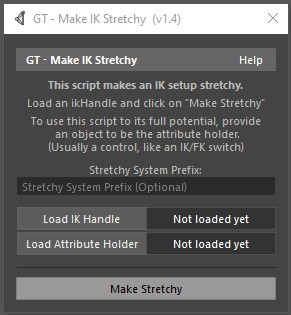
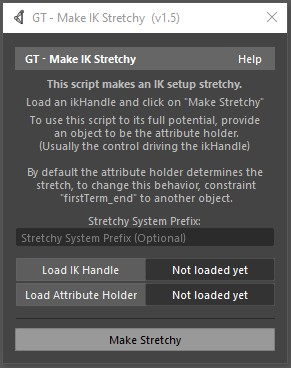
Updated stretchy system to avoid cycles and errors

diff --git a/python-scripts/gt_make_ik_stretchy.py b/python-scripts/gt_make_ik_stretchy.py
@@ -23,6 +23,10 @@
  Created functions to validate objects
  Created functions to update GUI
  Updated help
+ 
+ 1.5 - 2021-01-02
+ Updated stretchy system to avoid cycles and errors
+ Removed incorrect Help GUI call line from standalone version
 
  
 """
@@ -48,7 +52,7 @@ import sys
 script_name = "GT - Make IK Stretchy"
 
 # Version:
-script_version = "1.4";
+script_version = "1.5";
 
 # Settings
 gt_make_ik_stretchy_settings = { 'ik_handle' : '',
@@ -88,7 +92,7 @@ def build_gui_make_ik_stretchy():
     cmds.separator(h=5, style='none') # Empty Space
     cmds.text(l='Load an ikHandle and click on "Make Stretchy"', align="center")
     cmds.separator(h=5, style='none') # Empty Space
-    cmds.text(l='To use this script to its full potential, provide\n an object to be the attribute holder.\n(Usually a control, like an IK/FK switch)', align="center")
+    cmds.text(l='To use this script to its full potential, provide\n an object to be the attribute holder.\n(Usually the control driving the ikHandle)\n\nBy default the attribute holder determines the\n stretch, to change this behavior, constraint\n "firstTerm_end" to another object.', align="center")
     cmds.separator(h=10, style='none') # Empty Space
     
     
@@ -350,13 +354,10 @@ def make_stretchy_ik(ik_handle, stretchy_name='temp', attribute_holder=None):
             Returns:
                 list (list): A list with the end locator one (to be attached to the IK control) and the stretchy_grp (system elements)
     '''
-        
-    ik_handle_parents = cmds.listRelatives(ik_handle, p=True) or []
-    if len(ik_handle_parents) == 0:
-        cmds.group(ik_handle, name=stretchy_name + '_ikHandle_grp')
-        
+      
+  
     ik_handle_joints = cmds.ikHandle(ik_handle, q=True, jointList=True)
-    
+
     distance_one = cmds.distanceDimension(sp=(1,random.random()*10,1), ep=(2,random.random()*10,2) )
     distance_one_transform = cmds.listRelatives(distance_one, parent=True, f=True) or [][0]
     distance_one_locators = cmds.listConnections(distance_one)
@@ -369,7 +370,7 @@ def make_stretchy_ik(ik_handle, stretchy_name='temp', attribute_holder=None):
     end_loc_one = cmds.rename(distance_one_locators[1], stretchy_name + "_firstTerm_end")
 
     distance_two = cmds.distanceDimension(sp=(1,random.random()*10,1), ep=(2,random.random()*10,2) )
-    distance_two_transform = cmds.listRelatives(distance_one, parent=True, f=True) or [][0]
+    distance_two_transform = cmds.listRelatives(distance_two, parent=True, f=True) or [][0]
     distance_two_locators = cmds.listConnections(distance_two)
     cmds.delete(cmds.pointConstraint(ik_handle_joints[0], distance_two_locators[0]))
     cmds.delete(cmds.pointConstraint(ik_handle, distance_two_locators[1]))
@@ -395,25 +396,38 @@ def make_stretchy_ik(ik_handle, stretchy_name='temp', attribute_holder=None):
 
 
     # Connect Nodes
+    nonzero_stretch_condition_node = cmds.createNode('condition', name=stretchy_name + "_strechyNonZero_condition")
+    nonzero_multiply_node = cmds.createNode('multiplyDivide', name=stretchy_name + "_onePctDistCondition_multiply")
+    cmds.connectAttr('%s.distance' % distance_node_two, '%s.input1X' % nonzero_multiply_node)
+    cmds.setAttr( nonzero_multiply_node + ".input2X", 0.01)
+    cmds.connectAttr('%s.outputX' % nonzero_multiply_node, '%s.colorIfTrueR' % nonzero_stretch_condition_node)
+    cmds.connectAttr('%s.outputX' % nonzero_multiply_node, '%s.secondTerm' % nonzero_stretch_condition_node)
+    cmds.setAttr( nonzero_stretch_condition_node + ".operation", 5)
+    
+    
     stretch_normalization_node = cmds.createNode('multiplyDivide', name=stretchy_name + "_distNormalization_divide")
-    cmds.connectAttr('%s.distance' % distance_node_one, '%s.input1X' % stretch_normalization_node)
+    cmds.connectAttr('%s.distance' % distance_node_one, '%s.firstTerm' % nonzero_stretch_condition_node)
+    cmds.connectAttr('%s.distance' % distance_node_one, '%s.colorIfFalseR' % nonzero_stretch_condition_node)
+    cmds.connectAttr('%s.outColorR' % nonzero_stretch_condition_node, '%s.input1X' % stretch_normalization_node)
+    
     cmds.connectAttr('%s.distance' % distance_node_two, '%s.input2X' % stretch_normalization_node)
 
     cmds.setAttr( stretch_normalization_node + ".operation", 2)
 
     stretch_condition_node = cmds.createNode('condition', name=stretchy_name + "_strechyAutomation_condition")
     cmds.setAttr( stretch_condition_node + ".operation", 3)
-    cmds.connectAttr('%s.distance' % distance_node_one, '%s.firstTerm' % stretch_condition_node)
+    cmds.connectAttr('%s.outColorR' % nonzero_stretch_condition_node, '%s.firstTerm' % stretch_condition_node) # Distance One
     cmds.connectAttr('%s.distance' % distance_node_two, '%s.secondTerm' % stretch_condition_node)
     cmds.connectAttr('%s.outputX' % stretch_normalization_node, '%s.colorIfTrueR' % stretch_condition_node)
 
     # Constraints
     cmds.pointConstraint (ik_handle_joints[0], start_loc_one)
     start_loc_condition = cmds.pointConstraint (ik_handle_joints[0], start_loc_two)
-    cmds.pointConstraint(ik_handle, end_loc_one)
+    
 
     if attribute_holder:
         if cmds.objExists(attribute_holder):
+            cmds.pointConstraint(attribute_holder, end_loc_one)
             cmds.addAttr(attribute_holder , ln='stretch', at='double', k=True, minValue=0, maxValue=1)
             cmds.setAttr(attribute_holder + ".stretch", 1)
             cmds.addAttr(attribute_holder , ln='squash', at='double', k=True, minValue=0, maxValue=1)
@@ -464,7 +478,7 @@ def make_stretchy_ik(ik_handle, stretchy_name='temp', attribute_holder=None):
             cmds.setAttr(volume_value_divide_node + ".operation", 2) # Divide
             cmds.setAttr(xy_divide_node + ".operation", 2) # Divide
 
-            cmds.connectAttr('%s.distance' % distance_node_one, '%s.input2X' % volume_normalization_divide_node)
+            cmds.connectAttr('%s.outColorR' % nonzero_stretch_condition_node, '%s.input2X' % volume_normalization_divide_node) # Distance One
             cmds.connectAttr('%s.distance' % distance_node_two, '%s.input1X' % volume_normalization_divide_node)
             
             cmds.connectAttr('%s.outputX' % volume_normalization_divide_node, '%s.input2X' % volume_value_divide_node)
@@ -505,10 +519,9 @@ def make_stretchy_ik(ik_handle, stretchy_name='temp', attribute_holder=None):
         for jnt in ik_handle_joints:
                 cmds.connectAttr('%s.outColorR' % stretch_condition_node, '%s.scaleX' % jnt)
 
-    
+
     return [end_loc_one, stretchy_grp]
 
 #Build UI
 if __name__ == '__main__':
     build_gui_make_ik_stretchy()
-    build_gui_help_make_stretchy_ik()
